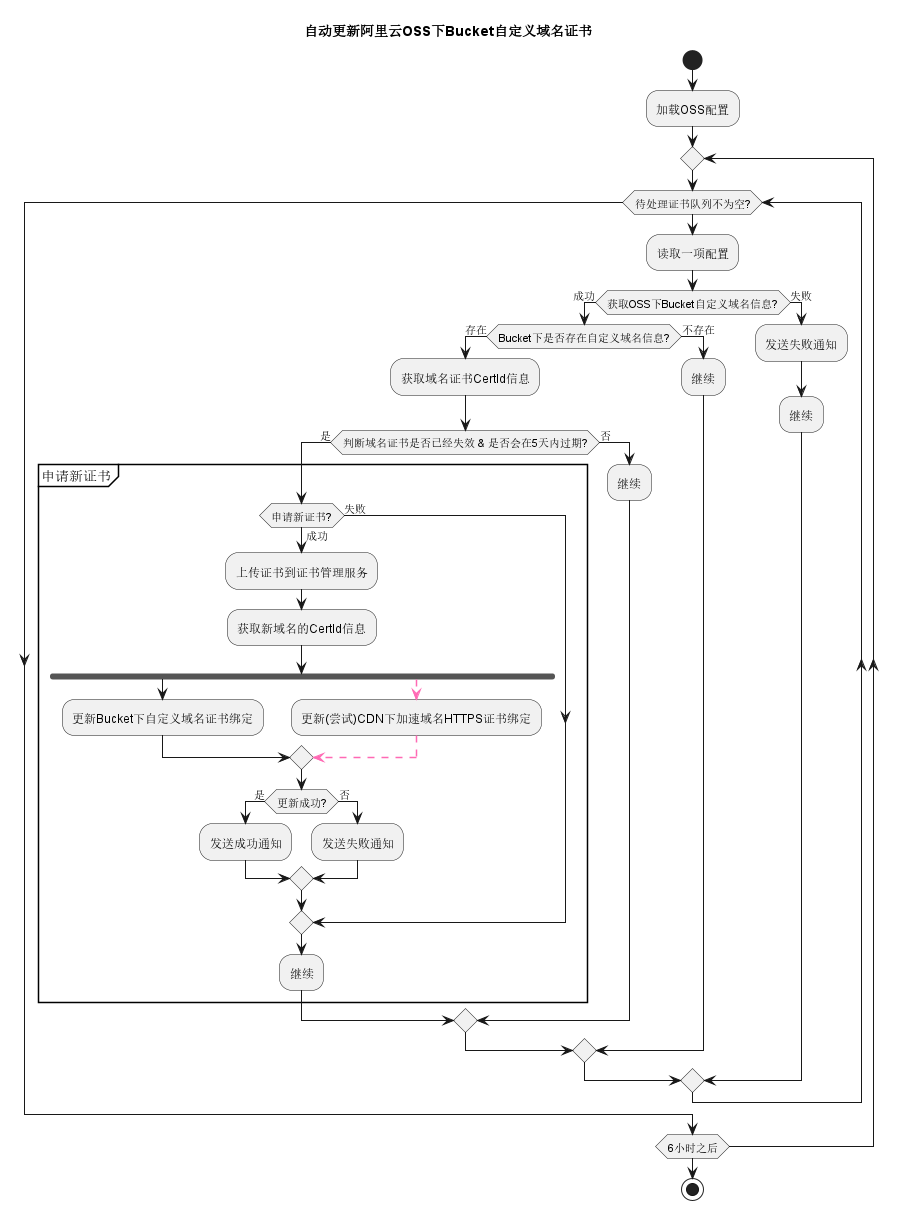
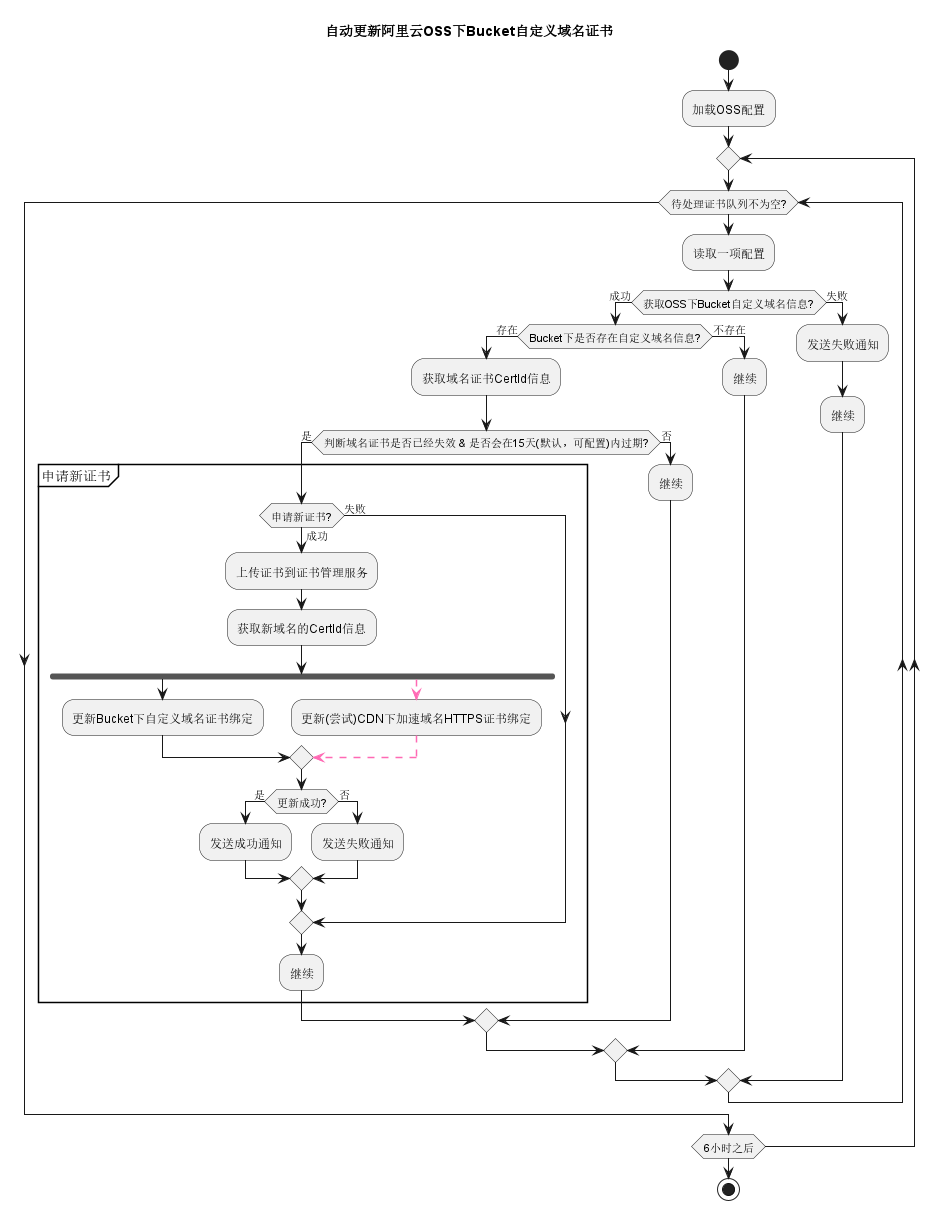
feat: 证书renow时间支持可配置

diff --git a/config/config.go b/config/config.go
@@ -10,8 +10,11 @@ import (
 
 const (
 	DefaultConfigPath = "/etc/oss-auto-cert/config.yaml"
-	// ExpiredEarly 提前过期时间点
-	ExpiredEarly = time.Hour * 24 * 5
+)
+
+var (
+	// expiredEarlyTime 提前过期时间点 默认15天
+	expiredEarlyTime = time.Hour * 24 * 15
 )
 
 type Config struct {
@@ -32,6 +35,9 @@ type Acme struct {
 
 	// 证书保存位置
 	DataDir string `yaml:"data-dir"`
+
+	// 证书提前renew时间
+	ExpiredEarly int `yaml:"expired-early"`
 }
 
 // Bucket OSS存储Bucket配置
@@ -64,5 +70,12 @@ func (conf *Config) LoadOptions() {
 		log.Fatalf("读取配置文件 %s 出错: %s", conf.Path, err.Error())
 	}
 
+	// 根据配置更新证书更新提前过期时间
+	expiredEarlyTime = time.Hour * 24 * time.Duration(max(15, conf.Acme.ExpiredEarly))
+
 	log.Debugf("配置文件: %s", conf)
+}
+
+func GetExpiredEarlyTime() time.Duration {
+	return expiredEarlyTime
 }

diff --git a/pkg/cdn/cdn.go b/pkg/cdn/cdn.go
@@ -110,7 +110,7 @@ func (d *Service) IsExpired(domain string) (bool, error) {
 	log.Debugf("证书签发的CA名称: %s", *info.CertOrg)
 
 	// 检查证书是否过期
-	if !utils.TimeIsExpire(*info.CertExpireTime, config.ExpiredEarly) {
+	if !utils.TimeIsExpire(*info.CertExpireTime, config.GetExpiredEarlyTime()) {
 		expireDate := *info.CertExpireTime
 		if t, err := utils.StrToTime(*info.CertExpireTime); err != nil {
 			log.Warnf(err.Error())

diff --git a/pkg/cas/cas.go b/pkg/cas/cas.go
@@ -58,7 +58,7 @@ func (s *Service) IsExpired(certID int64) (bool, error) {
 		return false, err
 	}
 
-	if *detail.Expired || utils.TimeIsExpire(*detail.EndDate, config.ExpiredEarly) {
+	if *detail.Expired || utils.TimeIsExpire(*detail.EndDate, config.GetExpiredEarlyTime()) {
 		log.Warnf("证书(%s, %d)过期，需要更换新证书", *detail.Name, certID)
 		return true, nil
 	} else {

diff --git a/pkg/acme/lego.go b/pkg/acme/lego.go
@@ -40,8 +40,10 @@ func NewLego(acme config.Acme) *LegoService {
 	if debug == "true" {
 		// 演示
 		// 测试环境下就用 lego.LEDirectoryStaging
+		log.Warnf("Lego CA-Dir use staging")
 		c.CADirURL = lego.LEDirectoryStaging
 	} else {
+		log.Infof("Lego CA-Dir use production")
 		c.CADirURL = lego.LEDirectoryProduction
 	}
 	c.Certificate.KeyType = certcrypto.RSA2048

diff --git a/README.md b/README.md
@@ -21,6 +21,7 @@ webhook: https://qyapi.weixin.qq.com/cgi-bin/webhook/send?key=xxxxxx-xxxxx-xxxxx
 acme:
   email: 邮箱地址
   data-dir: 申请的证书文件保存目录（绝对路径）
+  expired-early: 15 # 证书提前过期时间，单位：天（默认提前15天过期）
 # 阿里云OSS配置 Bucket信息列表
 buckets:
   - name: bucket名称1
